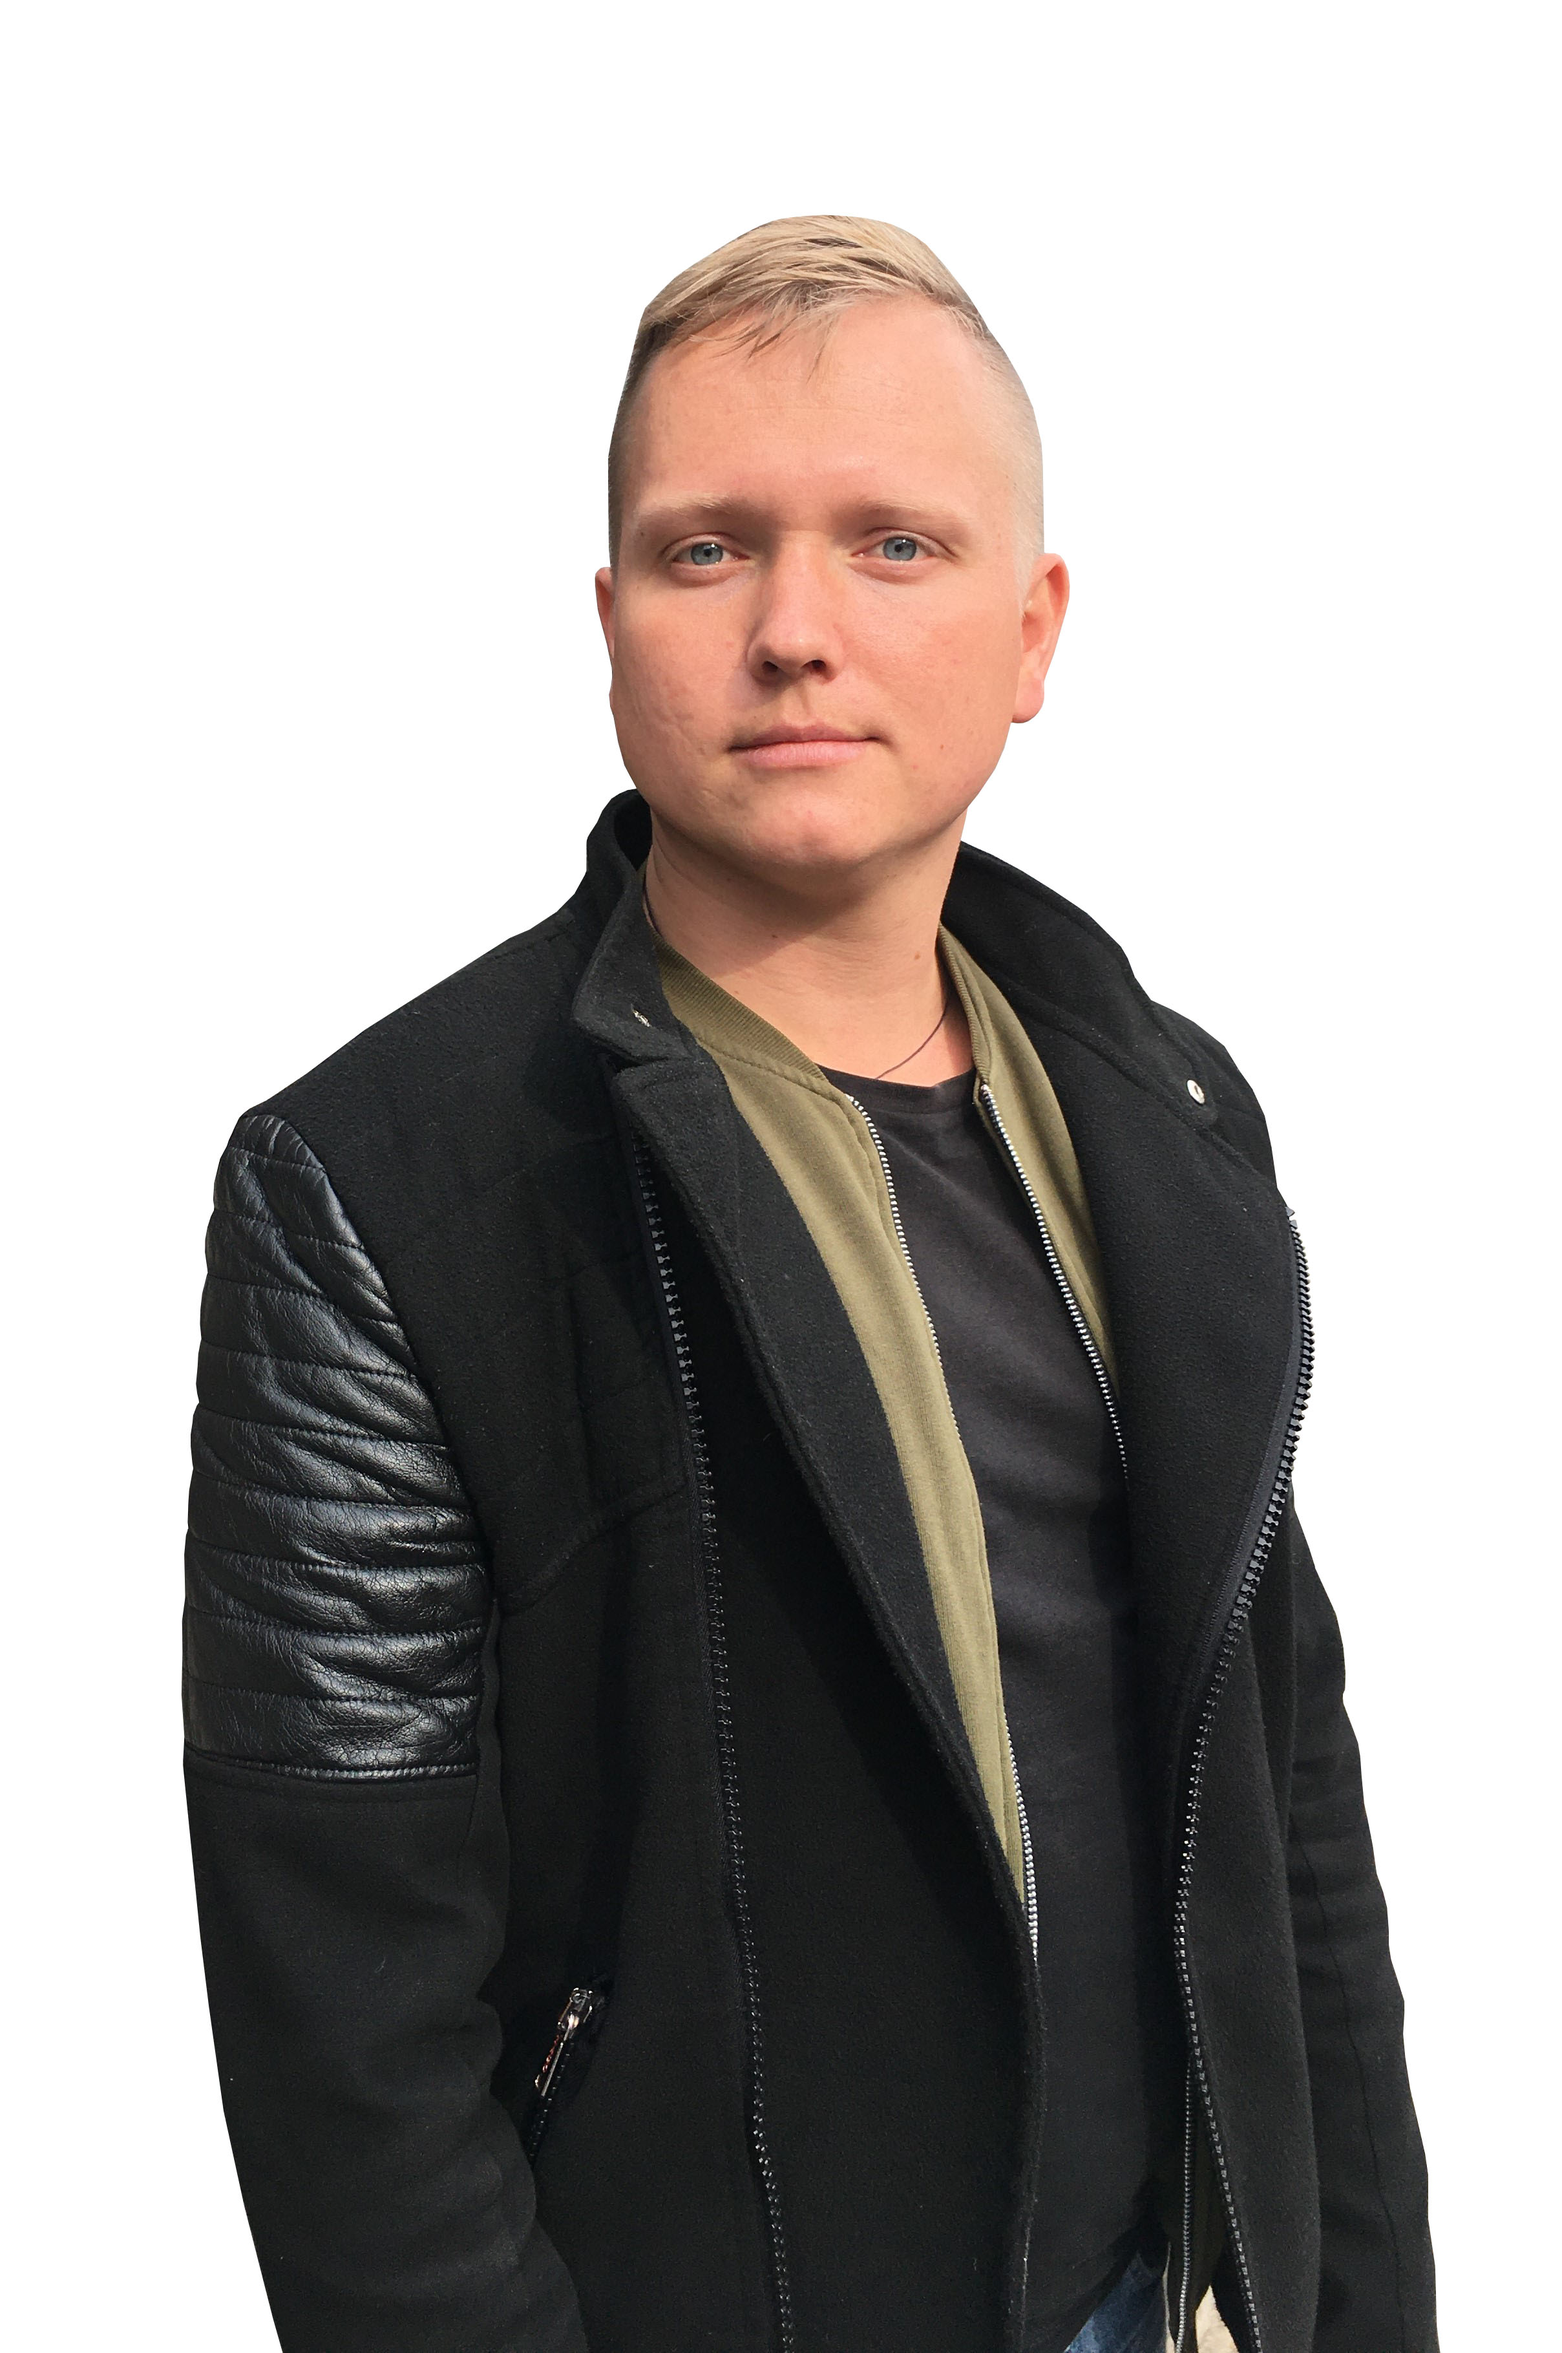
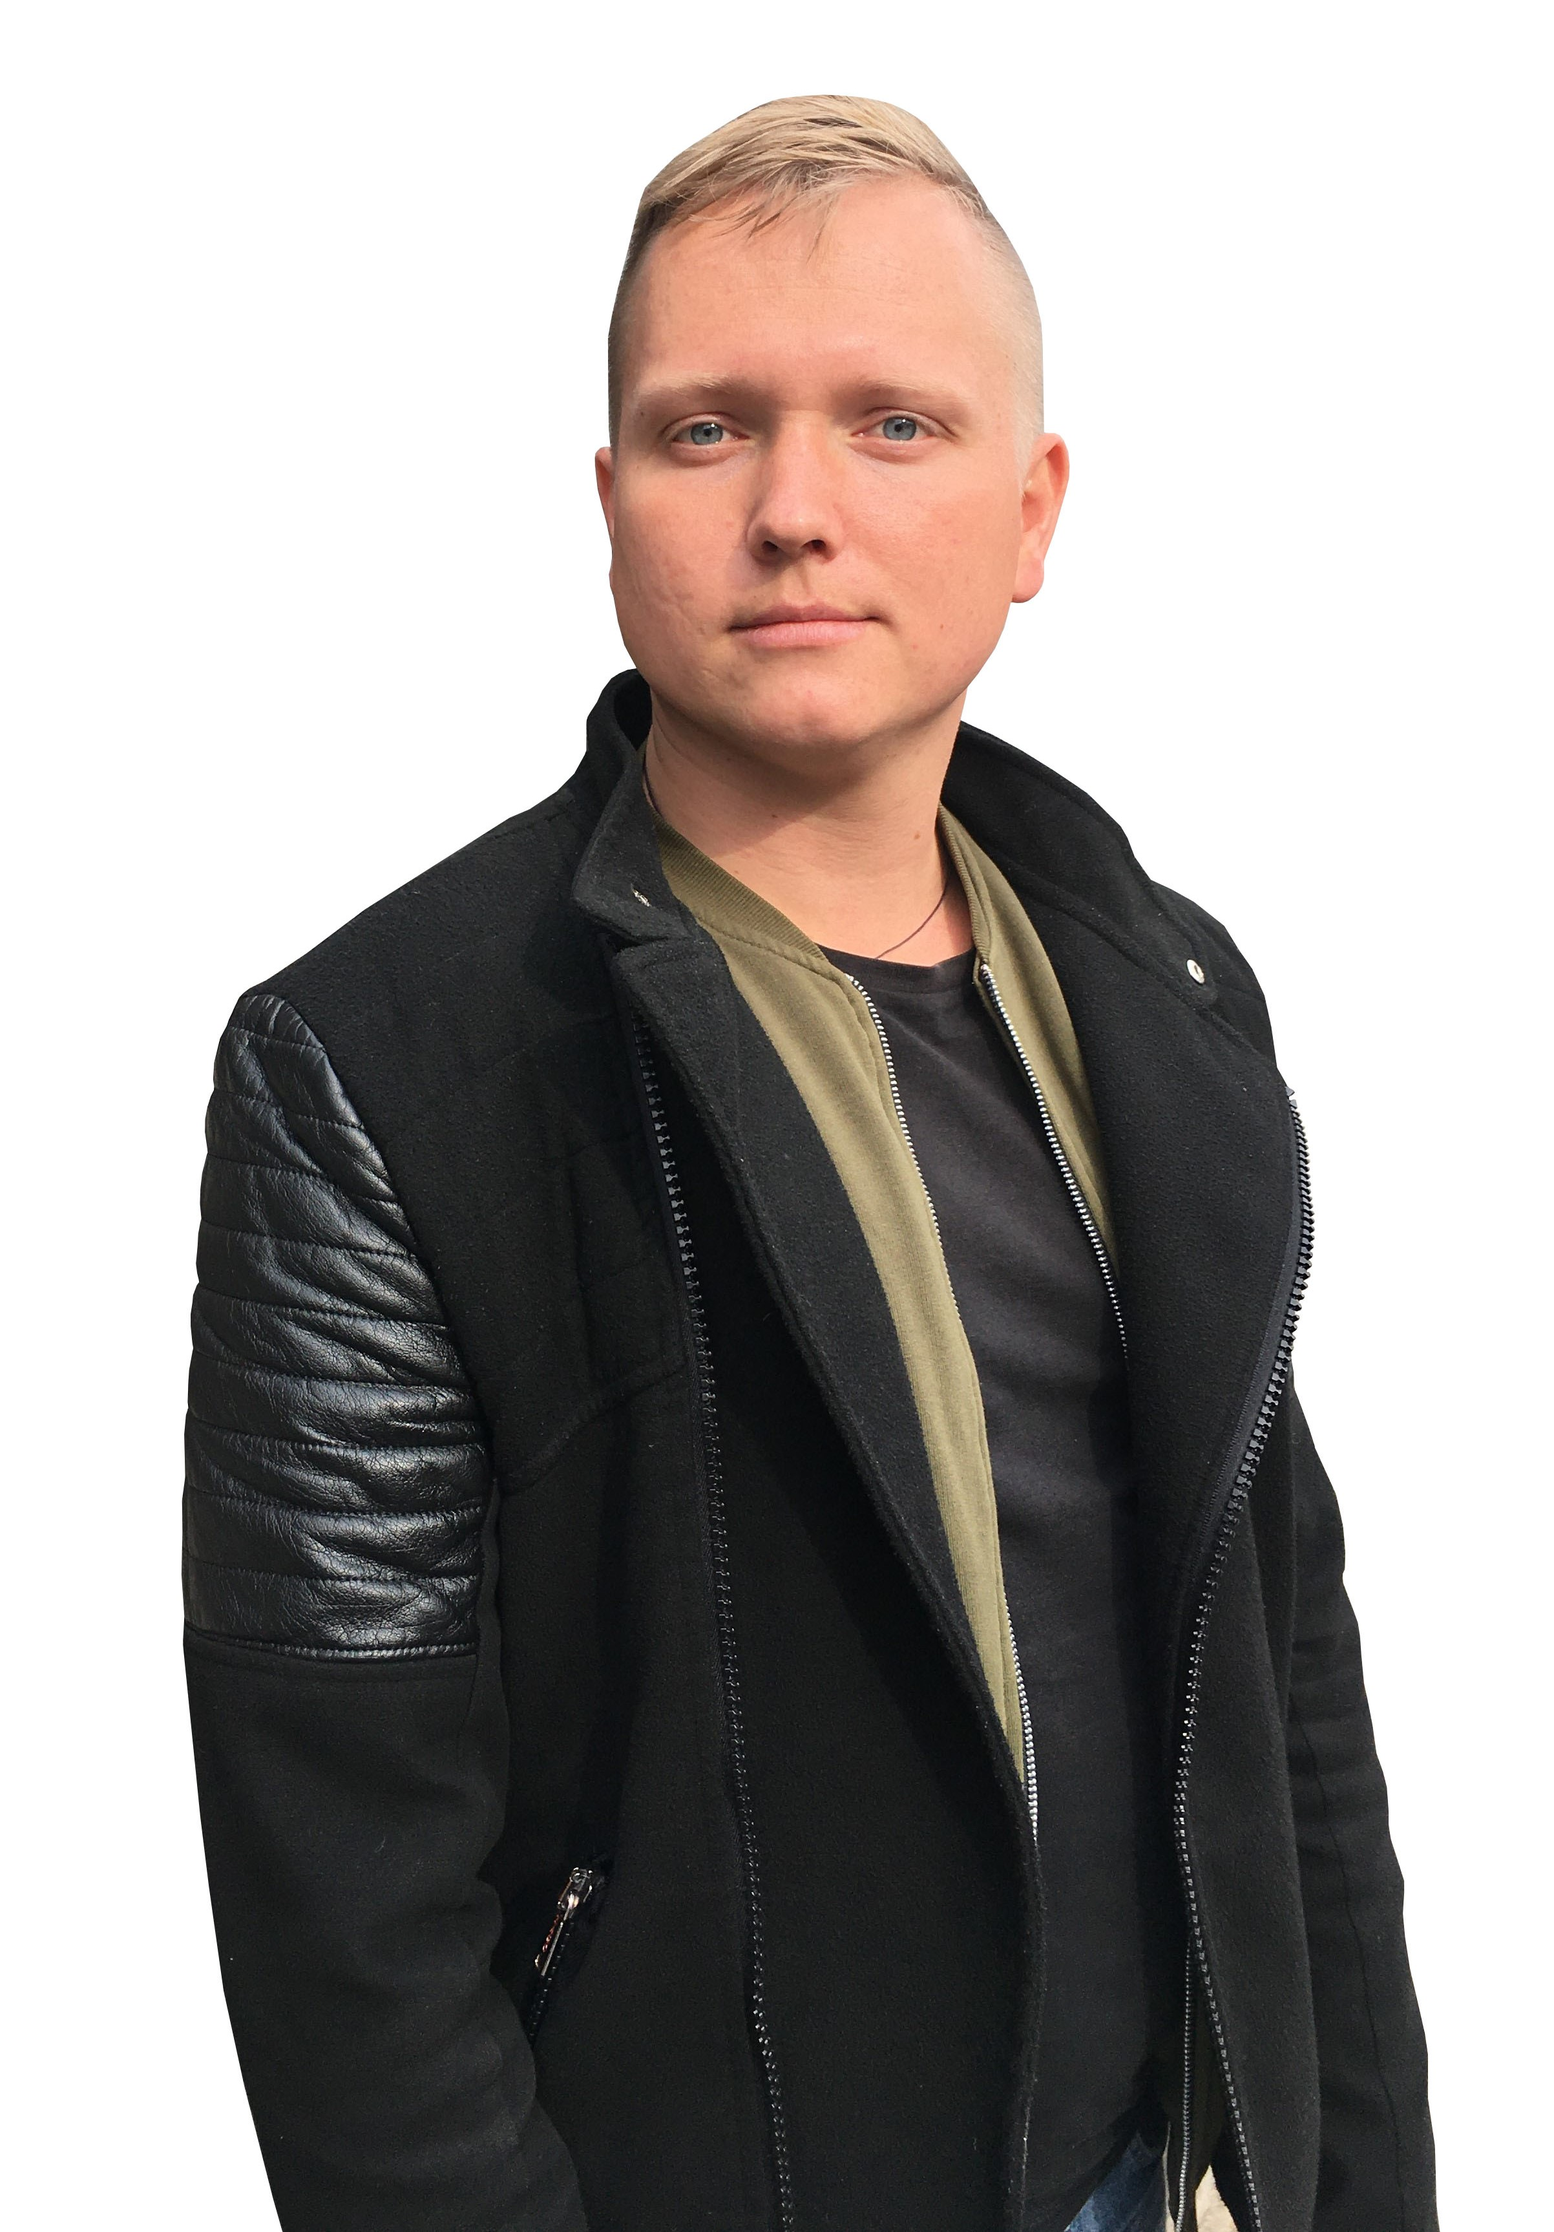
portfolio

diff --git a/css/blocks/intro.less b/css/blocks/intro.less
@@ -83,7 +83,7 @@
 .intro__photo {
     display: block;
     width: 100%;
-    max-width: 350px;
+    max-width: 340px;
     height: auto;
 
     position: absolute;
